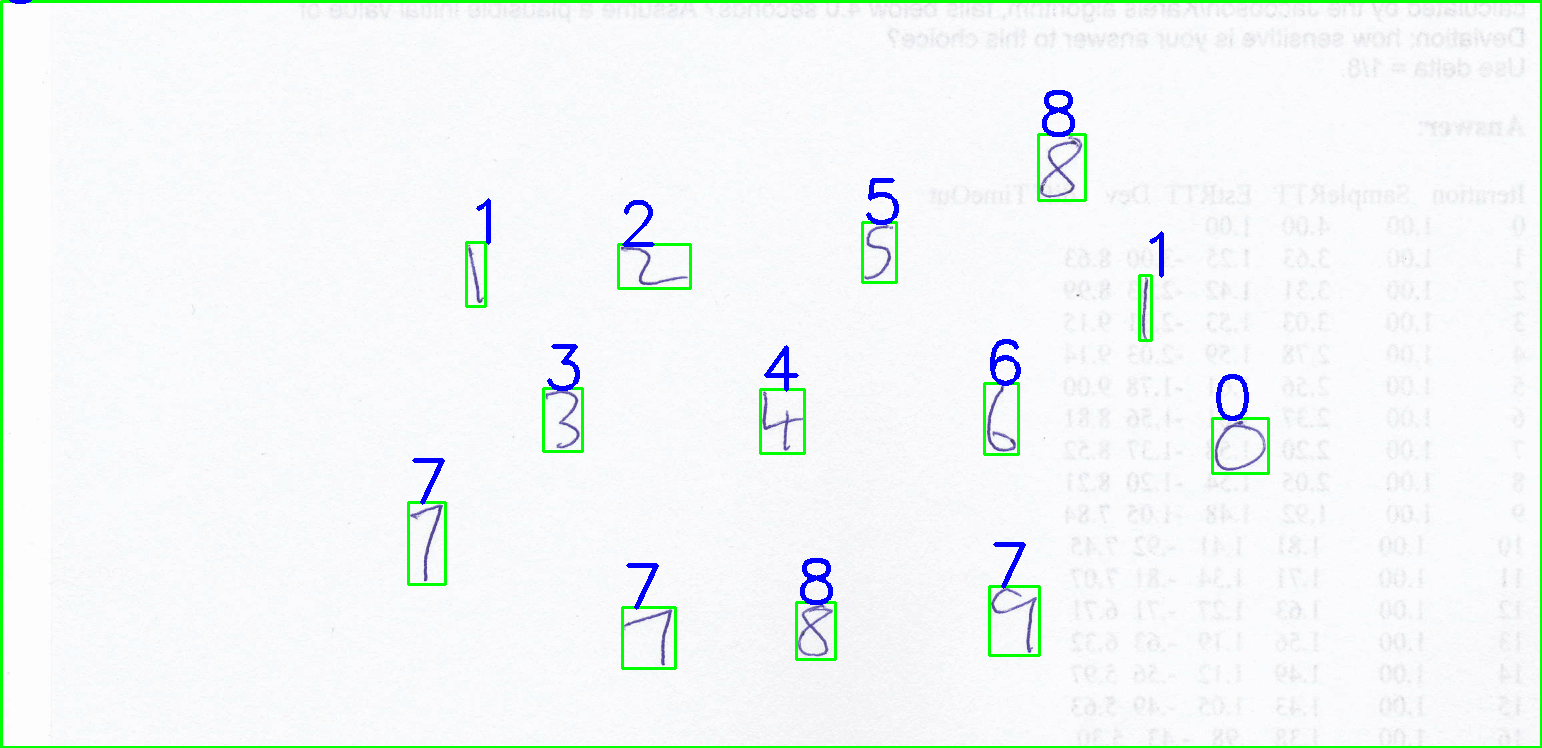
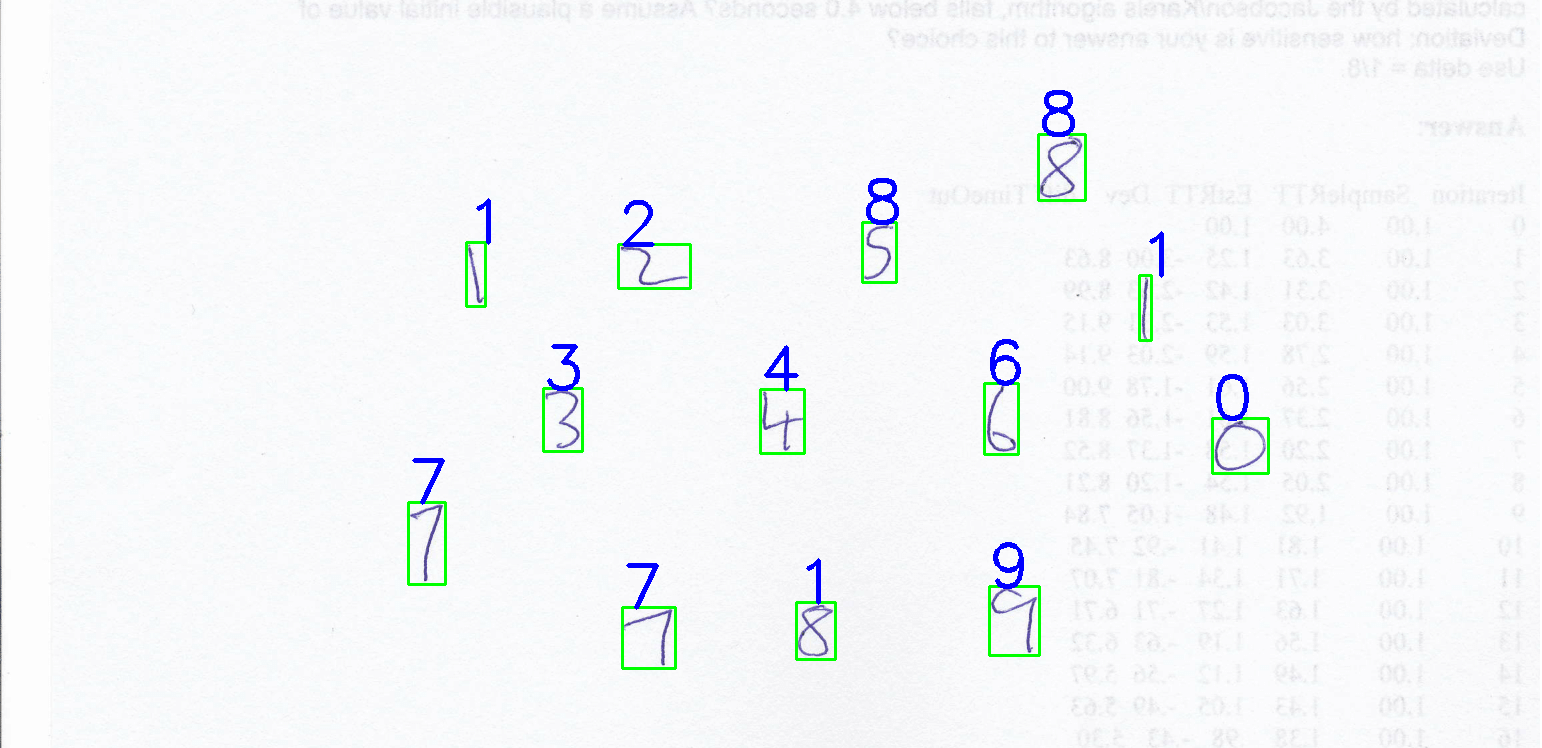
added new files
updated code to work with new libraries

diff --git a/NEW_digit_recog.py b/NEW_digit_recog.py
@@ -1,0 +1,227 @@
+# -*- coding: utf-8 -*-
+"""
+Created on Sat Nov 21 14:38:53 2015
+
+@author: Pavitrakumar
+
+"""
+
+import numpy as np
+from scipy.misc.pilutil import imresize
+import cv2 #version 3.2.0
+from skimage.feature import hog
+from matplotlib import pyplot as plt
+from sklearn.model_selection import train_test_split
+from sklearn.metrics import accuracy_score
+from sklearn.utils import shuffle
+
+DIGIT_WIDTH = 10 
+DIGIT_HEIGHT = 20
+IMG_HEIGHT = 28
+IMG_WIDTH = 28
+CLASS_N = 10 # 0-9
+
+#This method splits the input training image into small cells (of a single digit) and uses these cells as training data.
+#The default training image (MNIST) is a 1000x1000 size image and each digit is of size 10x20. so we divide 1000/10 horizontally and 1000/20 vertically.
+def split2d(img, cell_size, flatten=True):
+    h, w = img.shape[:2]
+    sx, sy = cell_size
+    cells = [np.hsplit(row, w//sx) for row in np.vsplit(img, h//sy)]
+    cells = np.array(cells)
+    if flatten:
+        cells = cells.reshape(-1, sy, sx)
+    return cells
+
+def load_digits(fn):
+    print('loading "%s for training" ...' % fn)
+    digits_img = cv2.imread(fn, 0)
+    digits = split2d(digits_img, (DIGIT_WIDTH, DIGIT_HEIGHT))
+    resized_digits = []
+    for digit in digits:
+        resized_digits.append(imresize(digit,(IMG_WIDTH, IMG_HEIGHT)))
+    labels = np.repeat(np.arange(CLASS_N), len(digits)/CLASS_N)
+    return np.array(resized_digits), labels
+
+def pixels_to_hog_20(img_array):
+    hog_featuresData = []
+    for img in img_array:
+        fd = hog(img, 
+                 orientations=10, 
+                 pixels_per_cell=(5,5),
+                 cells_per_block=(1,1), 
+                 visualise=False)
+        hog_featuresData.append(fd)
+    hog_features = np.array(hog_featuresData, 'float64')
+    return np.float32(hog_features)
+
+#define a custom model in a similar class wrapper with train and predict methods
+class KNN_MODEL():
+    def __init__(self, k = 3):
+        self.k = k
+        self.model = cv2.ml.KNearest_create()
+
+    def train(self, samples, responses):
+        self.model.train(samples, cv2.ml.ROW_SAMPLE, responses)
+
+    def predict(self, samples):
+        retval, results, neigh_resp, dists = self.model.findNearest(samples, self.k)
+        return results.ravel()
+
+class SVM_MODEL():
+    def __init__(self, num_feats, C = 1, gamma = 0.1):
+        self.model = cv2.ml.SVM_create()
+        self.model.setType(cv2.ml.SVM_C_SVC)
+        self.model.setKernel(cv2.ml.SVM_RBF) #SVM_LINEAR, SVM_RBF
+        self.model.setC(C)
+        self.model.setGamma(gamma)
+        self.features = num_feats
+
+    def train(self, samples, responses):
+        self.model.train(samples, cv2.ml.ROW_SAMPLE, responses)
+
+    def predict(self, samples):
+        results = self.model.predict(samples.reshape(-1,self.features))
+        return results[1].ravel()
+
+
+def get_digits(contours, hierarchy):
+    hierarchy = hierarchy[0]
+    bounding_rectangles = [cv2.boundingRect(ctr) for ctr in contours]   
+    final_bounding_rectangles = []
+    #find the most common heirarchy level - that is where our digits's bounding boxes are
+    u, indices = np.unique(hierarchy[:,-1], return_inverse=True)
+    most_common_heirarchy = u[np.argmax(np.bincount(indices))]
+    
+    for r,hr in zip(bounding_rectangles, hierarchy):
+        x,y,w,h = r
+        #this could vary depending on the image you are trying to predict
+        #we are trying to extract ONLY the rectangles with images in it (this is a very simple way to do it)
+        #we use heirarchy to extract only the boxes that are in the same global level - to avoid digits inside other digits
+        #ex: there could be a bounding box inside every 6,9,8 because of the loops in the number's appearence - we don't want that.
+        #read more about it here: https://docs.opencv.org/trunk/d9/d8b/tutorial_py_contours_hierarchy.html
+        if ((w*h)>250) and (10 <= w <= 200) and (10 <= h <= 200) and hr[3] == most_common_heirarchy: 
+            final_bounding_rectangles.append(r)    
+
+    return final_bounding_rectangles
+
+
+def proc_user_img(img_file, model):
+    print('loading "%s for digit recognition" ...' % img_file)
+    im = cv2.imread(img_file)    
+    blank_image = np.zeros((im.shape[0],im.shape[1],3), np.uint8)
+    blank_image.fill(255)
+
+    imgray = cv2.cvtColor(im,cv2.COLOR_BGR2GRAY)
+    plt.imshow(imgray)
+    kernel = np.ones((5,5),np.uint8)
+    
+    ret,thresh = cv2.threshold(imgray,127,255,0)   
+    thresh = cv2.erode(thresh,kernel,iterations = 1)
+    thresh = cv2.dilate(thresh,kernel,iterations = 1)
+    thresh = cv2.erode(thresh,kernel,iterations = 1)
+    
+    _,contours,hierarchy = cv2.findContours(thresh, cv2.RETR_TREE, cv2.CHAIN_APPROX_SIMPLE)
+    
+    digits_rectangles = get_digits(contours,hierarchy)  #rectangles of bounding the digits in user image
+    
+    for rect in digits_rectangles:
+        x,y,w,h = rect
+        cv2.rectangle(im,(x,y),(x+w,y+h),(0,255,0),2)
+        im_digit = imgray[y:y+h,x:x+w]
+        im_digit = (255-im_digit)
+        im_digit = imresize(im_digit,(IMG_WIDTH ,IMG_HEIGHT))
+
+        hog_img_data = pixels_to_hog_20([im_digit])  
+        pred = model.predict(hog_img_data)
+        cv2.putText(im, str(int(pred[0])), (x,y),cv2.FONT_HERSHEY_SIMPLEX, 2, (255, 0, 0), 3)
+        cv2.putText(blank_image, str(int(pred[0])), (x,y),cv2.FONT_HERSHEY_SIMPLEX, 3, (255, 0, 0), 5)
+
+    plt.imshow(im)
+    cv2.imwrite("original_overlay.png",im) 
+    cv2.imwrite("final_digits.png",blank_image) 
+    cv2.destroyAllWindows()           
+
+
+def get_contour_precedence(contour, cols):
+    tolerance_factor = 10
+    return ((contour[1] // tolerance_factor) * tolerance_factor) * cols + contour[0]  #row-wise ordering
+
+
+#this function processes a custom training image
+#see example : custom_train.digits.jpg
+#if you want to use your own, it should be in a similar format
+def load_digits_custom(img_file):
+    train_data = []
+    train_target = []
+    start_class = 1
+    im = cv2.imread(img_file)
+    imgray = cv2.cvtColor(im,cv2.COLOR_BGR2GRAY)
+    plt.imshow(imgray)
+    kernel = np.ones((5,5),np.uint8)
+    
+    ret,thresh = cv2.threshold(imgray,127,255,0)   
+    thresh = cv2.erode(thresh,kernel,iterations = 1)
+    thresh = cv2.dilate(thresh,kernel,iterations = 1)
+    thresh = cv2.erode(thresh,kernel,iterations = 1)
+    
+    _,contours,hierarchy = cv2.findContours(thresh, cv2.RETR_TREE, cv2.CHAIN_APPROX_SIMPLE)
+    digits_rectangles = get_digits(contours,hierarchy)  #rectangles of bounding the digits in user image
+    
+    #sort rectangles accoring to x,y pos so that we can label them
+    digits_rectangles.sort(key=lambda x:get_contour_precedence(x, im.shape[1]))
+    
+    for index,rect in enumerate(digits_rectangles):
+        x,y,w,h = rect
+        cv2.rectangle(im,(x,y),(x+w,y+h),(0,255,0),2)
+        im_digit = imgray[y:y+h,x:x+w]
+        im_digit = (255-im_digit)
+        
+        im_digit = imresize(im_digit,(IMG_WIDTH, IMG_HEIGHT))
+        train_data.append(im_digit)
+        train_target.append(start_class%10)
+
+        if index>0 and (index+1) % 10 == 0:
+            start_class += 1
+    cv2.imwrite("training_box_overlay.png",im)
+    
+    return np.array(train_data), np.array(train_target)
+
+#------------------data preparation--------------------------------------------
+
+TRAIN_DATA_IMG = 'digits.png' 
+USER_IMG = 'test_image.png'
+
+#digits, labels = load_digits(TRAIN_DATA_IMG) #original MNIST data
+
+digits, labels = load_digits_custom('custom_train_digits.jpg') #my handwritten dataset
+
+print('train data shape',digits.shape)
+print('test data shape',labels.shape)
+
+digits, labels = shuffle(digits, labels, random_state=256)
+train_digits_data = pixels_to_hog_20(digits)
+X_train, X_test, y_train, y_test = train_test_split(train_digits_data, labels, test_size=0.33, random_state=42)
+
+#------------------training and testing----------------------------------------
+
+model = KNN_MODEL(k = 3)
+model.train(X_train, y_train)
+preds = model.predict(X_test)
+print('Accuracy: ',accuracy_score(y_test, preds))
+
+model = KNN_MODEL(k = 4)
+model.train(train_digits_data, labels)
+proc_user_img(USER_IMG, model)
+
+
+
+model = SVM_MODEL(num_feats = train_digits_data.shape[1])
+model.train(X_train, y_train)
+preds = model.predict(X_test)
+print('Accuracy: ',accuracy_score(y_test, preds))
+
+model = SVM_MODEL(num_feats = train_digits_data.shape[1])
+model.train(train_digits_data, labels)
+proc_user_img(USER_IMG, model)
+
+#------------------------------------------------------------------------------
